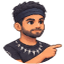
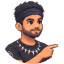
Animate the character cursor over project cards
Browsers only render frame 0 of an image passed to cursor: url(), so the
pointing character could never animate as a CSS cursor. Replace it with a
DOM <img> that follows the pointer with easing and tilts into horizontal
movement, offset so the character's fingertip lands on the real pointer.
Its rAF loop only runs while a card is hovered and parks once it settles.

Also switch the case study nav to Arima to match the home page, and break
the AI Hub cover title onto two balanced lines.

diff --git a/script.js b/script.js
@@ -203,3 +203,65 @@ document.addEventListener('click', (e) => {
     spawnSniper(e.clientX, e.clientY);
   });
 })();
+
+// Animated character cursor over project cards.
+// A DOM <img> rather than a CSS cursor, because browsers only ever render
+// frame 0 of an image passed to cursor: url().
+(function initCardCursor() {
+  if (!document.querySelector('.hcard')) return;
+  if (!window.matchMedia('(pointer: fine)').matches) return;
+  if (window.matchMedia('(prefers-reduced-motion: reduce)').matches) return;
+
+  // Fingertip sits at 58,44 of the 64x64 art — line it up with the real pointer.
+  const HOTSPOT_X = (58 / 64) * 100;
+  const HOTSPOT_Y = (44 / 64) * 100;
+
+  const img = document.createElement('img');
+  img.src = 'images/character/pointingsmall.gif';
+  img.alt = '';
+  img.className = 'card-cursor';
+  img.setAttribute('aria-hidden', 'true');
+  document.body.appendChild(img);
+
+  let x = 0, y = 0, cx = 0, cy = 0, rot = 0;
+  let active = false, placed = false, raf = null;
+
+  function frame() {
+    const prev = cx;
+    cx += (x - cx) * 0.2;
+    cy += (y - cy) * 0.2;
+    const target = Math.max(-16, Math.min(16, (cx - prev) * 1.2));
+    rot += (target - rot) * 0.16;
+    img.style.transform =
+      `translate3d(${cx}px, ${cy}px, 0) translate(-${HOTSPOT_X}%, -${HOTSPOT_Y}%) rotate(${rot}deg)`;
+
+    // Keep animating while hovering, then let it settle before parking the loop.
+    raf = (active || Math.hypot(x - cx, y - cy) > 0.4 || Math.abs(rot) > 0.4)
+      ? requestAnimationFrame(frame)
+      : null;
+  }
+  function start() { if (!raf) raf = requestAnimationFrame(frame); }
+
+  window.addEventListener('pointermove', (e) => {
+    x = e.clientX;
+    y = e.clientY;
+    if (!placed) { cx = x; cy = y; placed = true; }
+    if (active) start();
+  }, { passive: true });
+
+  document.addEventListener('pointerover', (e) => {
+    if (active || !e.target.closest || !e.target.closest('.hcard')) return;
+    active = true;
+    cx = x; cy = y; rot = 0;
+    img.classList.add('is-on');
+    start();
+  }, { passive: true });
+
+  document.addEventListener('pointerout', (e) => {
+    if (!active || !e.target.closest || !e.target.closest('.hcard')) return;
+    const to = e.relatedTarget;
+    if (to && to.closest && to.closest('.hcard')) return;
+    active = false;
+    img.classList.remove('is-on');
+  }, { passive: true });
+})();

diff --git a/style.css b/style.css
@@ -576,8 +576,28 @@ h1, h2, h3, h4, h5, h6 {
 }
 
 /* ─── HORIZONTAL CARD ────────────────────────────────────────── */
+/* Beats the `a *` rule pixel-cursor.js injects, so the character in
+   .card-cursor stands in for the pointer across the whole card. */
+.hcard,
+.hcard * {
+  cursor: none !important;
+}
+.card-cursor {
+  position: fixed;
+  left: 0;
+  top: 0;
+  width: 54px;
+  height: auto;
+  z-index: 9998;
+  pointer-events: none;
+  opacity: 0;
+  transition: opacity 0.18s ease;
+  will-change: transform;
+  image-rendering: pixelated;
+}
+.card-cursor.is-on { opacity: 1; }
+
 .hcard {
-  cursor: url("images/character/pointingsmall-cursor.png") 32 32, pointer !important;
   display: grid;
   grid-template-columns: 1fr 1.3fr;
   align-items: stretch;

diff --git a/aihub-security-coded.html b/aihub-security-coded.html
@@ -480,7 +480,7 @@
     <section class="sec dark hero-cover">
       <div class="wrap">
         <img class="brand-logo" src="images/Logos/Instabase.webp" alt="Instabase" />
-        <h1 class="cover-title">Enabling enterprise security suite for AI Hub</h1>
+        <h1 class="cover-title">Enabling enterprise security suite for<br />AI Hub platform</h1>
         <p class="cover-sub">Enterprise authentication &amp; authorization: SSO, RBAC, & API access.</p>
 
         <span class="nda-note"><svg class="mi">

diff --git a/case-study.css b/case-study.css
@@ -107,7 +107,7 @@ h3,
 }
 
 .nav-logo {
-  font-family: "DM Sans", -apple-system, BlinkMacSystemFont, sans-serif;
+  font-family: "Arima", -apple-system, BlinkMacSystemFont, sans-serif;
   font-weight: 700;
   font-size: var(--fs-h6);
   color: var(--ink);
@@ -121,6 +121,7 @@ h3,
 }
 
 .nav-links a {
+  font-family: "Arima", -apple-system, BlinkMacSystemFont, sans-serif;
   color: var(--ink-2);
   text-decoration: none;
   font-size: var(--fs-body-sm);
